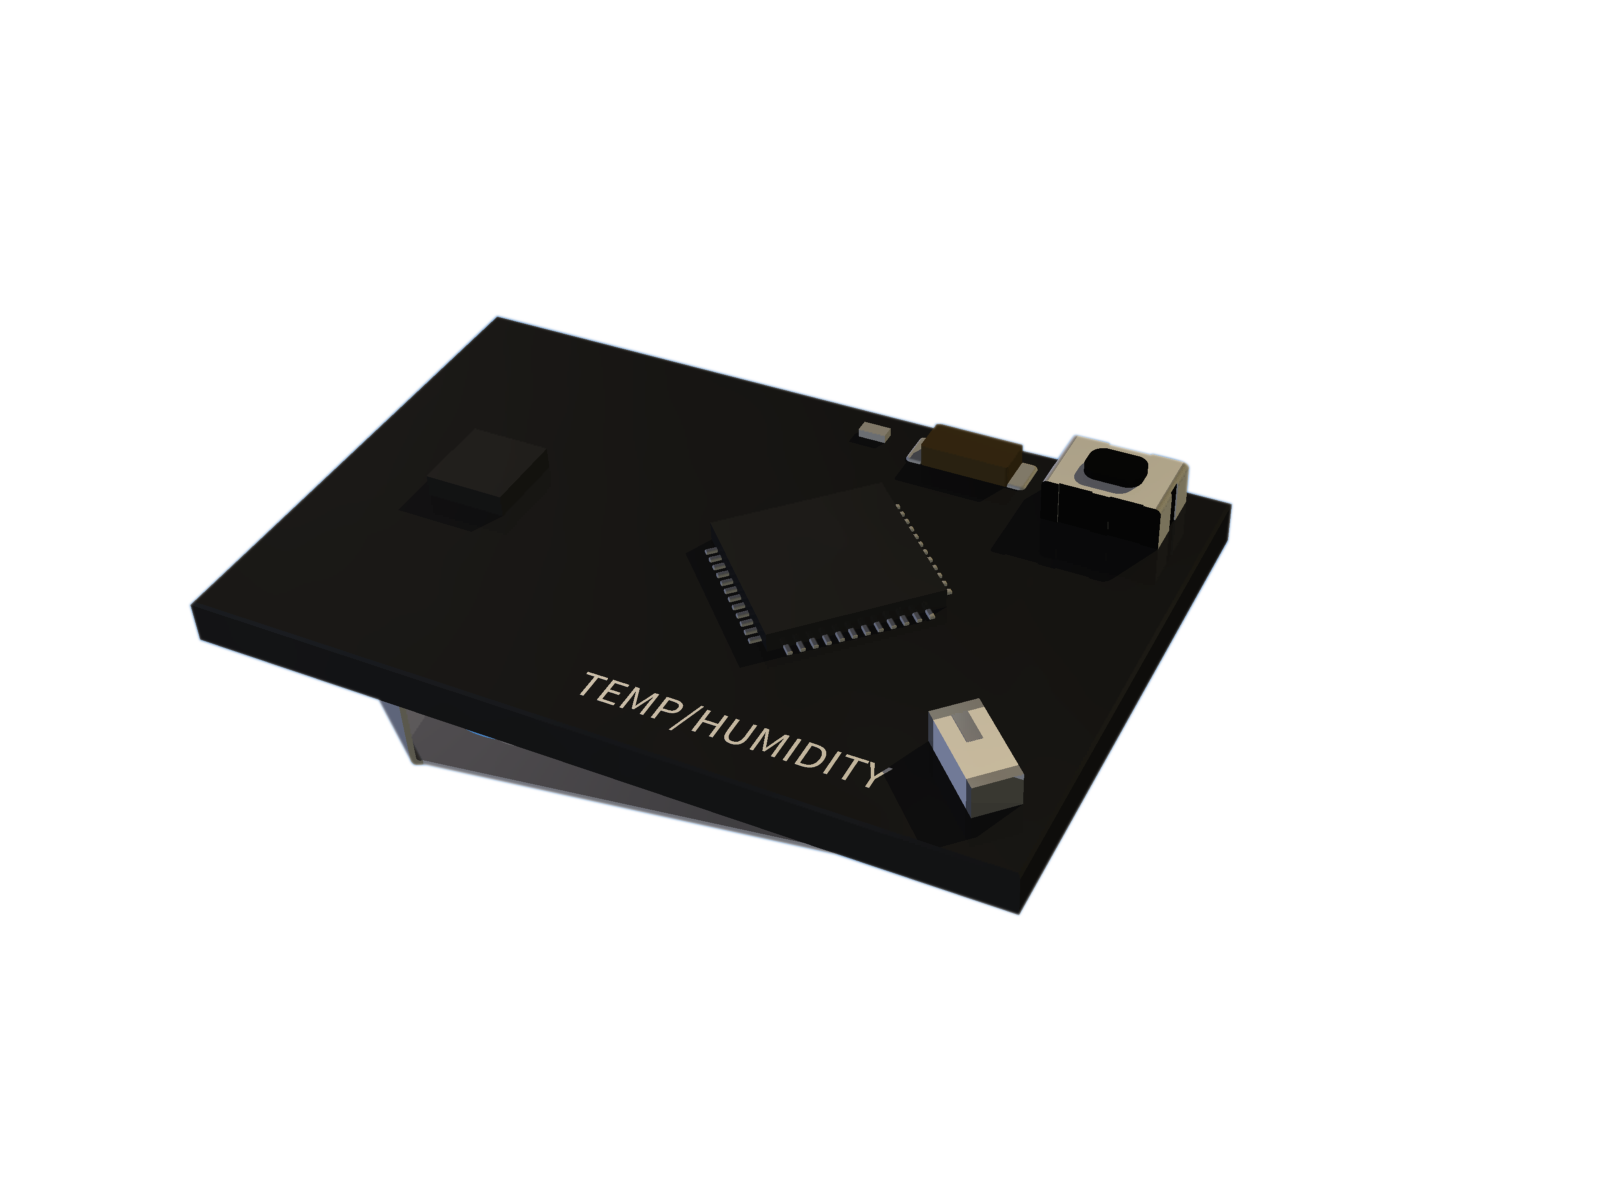
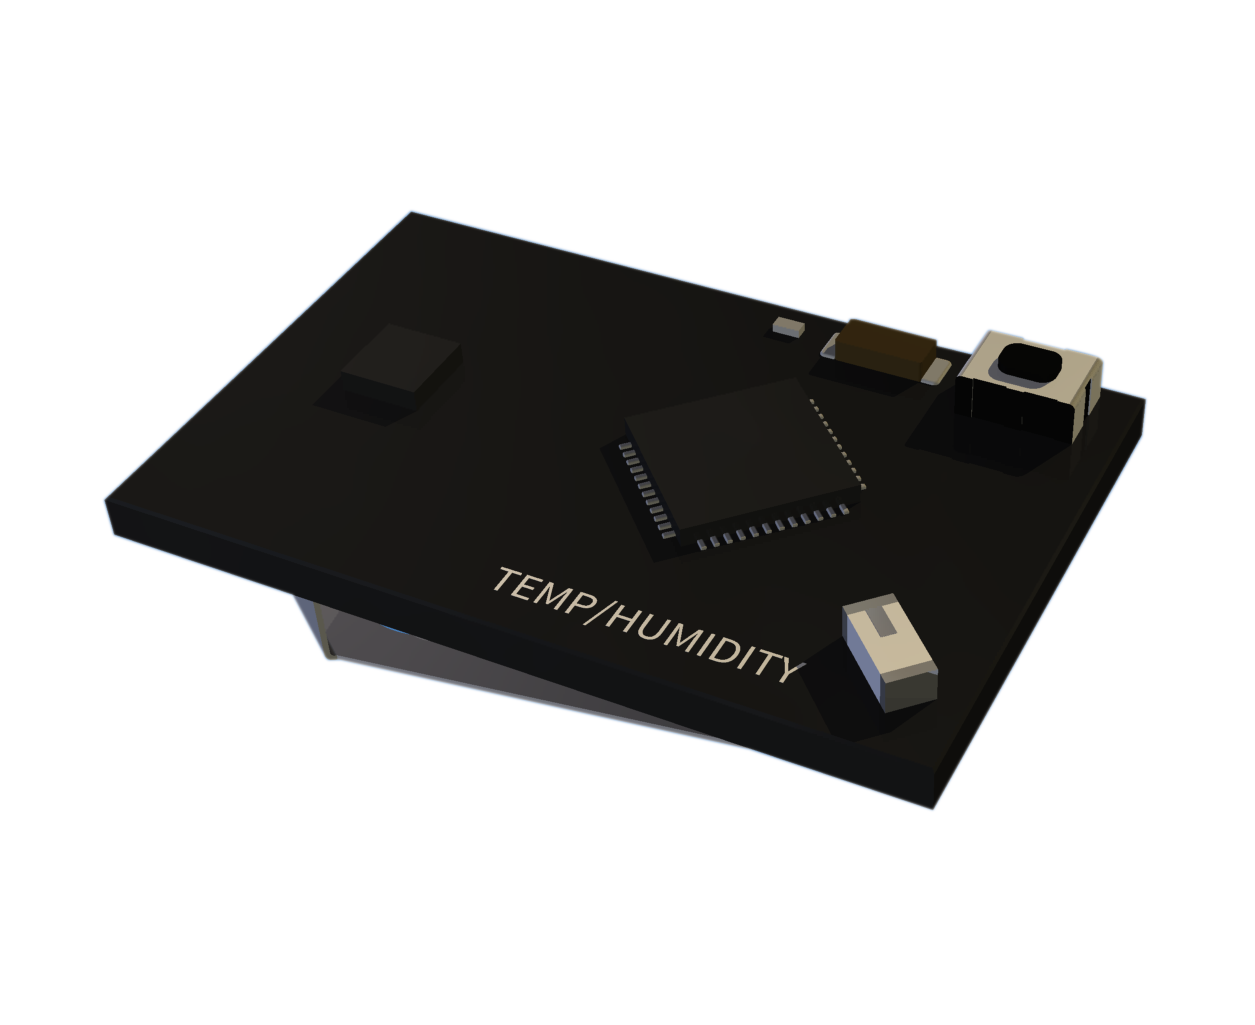
update sensor size

diff --git a/Welcome/Sensors.md b/Welcome/Sensors.md
@@ -64,7 +64,7 @@ In a similar manner, the color sensor produces a set of values which are then tr
 
 <div class="category">
 <h2>The Temperature/Humidity Module</h2> 
-<img src="assets/Temp.png" alt="" title="" style= width:550px></a>
+<img src="assets/Temp.png" alt="" title="" style= width:450px></a>
 
 <p> This module integrates the <a href="http://www.meas-spec.com/product/humidity/HTU21D.aspx">HTU21D chip</a>, manufactured by Measurement Specialties™. The HTU21D is a digital Relative Humidity Sensor with Temperature Output.</p>
 
